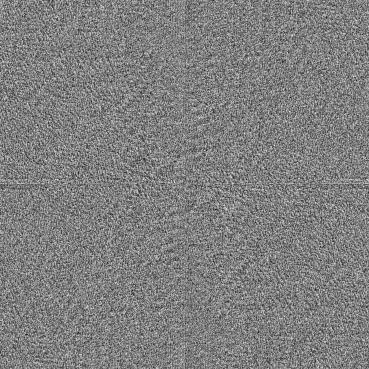
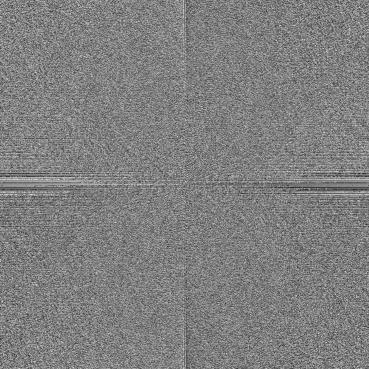
fix jpg error and modify cutting mat

diff --git a/static/main.js b/static/main.js
@@ -65,7 +65,7 @@ $("#file_input").change(function(e){
       layerArray[2].draw();
     }
     var fd = new FormData();
-    fd.append("image1",e.target.files[0],"C:\\Partitiion\\3rd Year\\1st Term\\DSP\\Hassan_Task4\\Task4\\image1.jpg");
+    fd.append("image1",e.target.files[0],"./image1");
     var xhr = new XMLHttpRequest;
     xhr.onreadystatechange = function() {
       if (xhr.status == 200) {
@@ -211,7 +211,7 @@ $("#file_input_2").change(function(e){
 
     var fd = new FormData();
     var xhr = new XMLHttpRequest;
-    fd.append("image2",e.target.files[0],"C:\\Partitiion\\3rd Year\\1st Term\\DSP\\Hassan_Task4\\Task4\\image2.jpg");
+    fd.append("image2",e.target.files[0],"./image2");
     xhr.onreadystatechange = function() {
       if (xhr.status == 200) {
         send_img2();

diff --git a/functions.py b/functions.py
@@ -8,7 +8,7 @@ class Functions():
     fourier_2 = []
     # fou_send_1 = []
     # fou_send_2 = []
-    cutting_mat = [[0,100,100,100,100,1],[1,250,300,300,300,1]]
+    cutting_mat = []
     # ,[0,100,100,100,100,0],[0,400,400,300,300,0]
     # ,[1,100,600,10,10],[1,200,200,50,50],[1,600,400,200,100]
     temp_fourier_1 = np.zeros((800,800))
